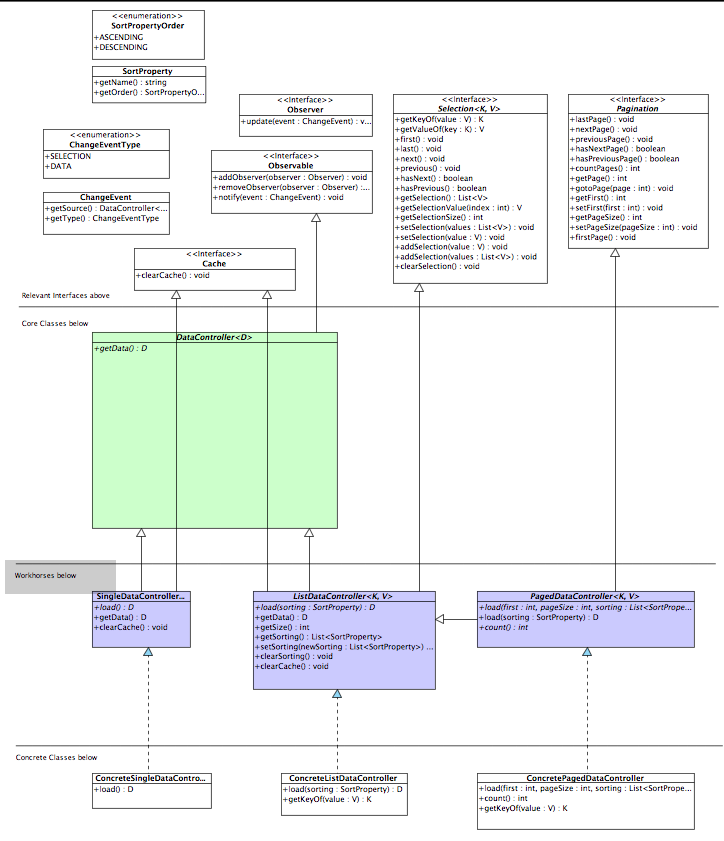
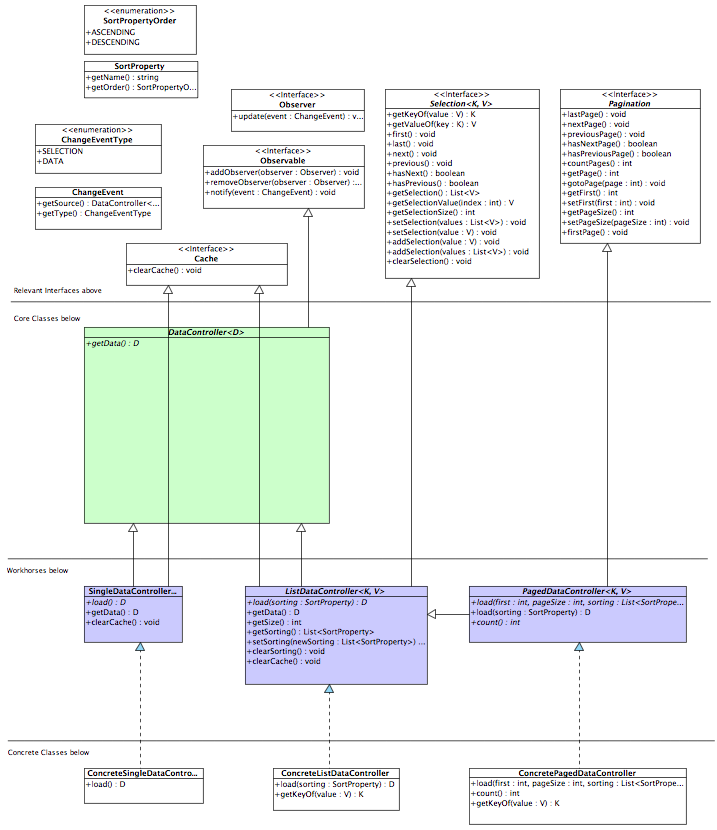
Readme details added, removed artefact from LazyDatacontrollerOverview.png

Changed region(s): [[0.0, 0.0, 0.9819, 0.8434], [0.0, 0.8735, 1.0, 0.994]]

diff --git a/README.md b/README.md
@@ -1,4 +1,49 @@
-lazy-datacontroller
-===================
+# lazy-datacontroller
 
 Data Controller framework with support for lazy loading, pagination, single- and multi-selection and observer pattern.
+
+## Overview
+
+Build flexible and powerful master–detail interfaces with these three classes SingleDataController, ListDataController and PagedListDataController
+
+![Adapter](src/site/resources/img/LazyDatacontrollerOverview.png "Adapter")
+
+## Adapters
+
+Adapters allow you to adapt a lazy controller to a view controller like JSF DataModel, PrimeFaces LazyDataModel. 
+
+![Adapter](src/site/resources/img/LazyDatacontrollerAdapter.png "Adapter")
+
+## Sample page
+
+This master–detail interface sample is taken from the included JSF Test module lazy-datacontroller-jsftest
+
+![Master–Detail Interface Sample](src/site/resources/img/LazyDatacontrollerSample.png "Master–Detail Interface Sample")
+
+## Building it
+Lazy Datacontroller uses Apache Maven as Build Tool 
+
+```bash
+git clone https://github.com/khennig/lazy-datacontroller.git
+cd lazy-datacontroller
+mvn install
+```
+
+## Adding it to your project
+Add the following dependency to your pom.xml:/project/dependencies
+
+```xml
+<dependency>
+    <groupId>com.tri-systems.ui.ldc</groupId>
+    <artifactId>lazy-datacontroller-impl</artifactId>
+    <version>1.0.0-SNAPSHOT</version>
+</dependency>
+<dependency>
+    <groupId>com.tri-systems.ui.ldc</groupId>
+    <artifactId>lazy-datacontroller-pfadapter</artifactId>
+    <version>1.0.0-SNAPSHOT</version>
+</dependency>
+```
+
+# License
+[MIT License](http://www.opensource.org/licenses/mit-license.php)
